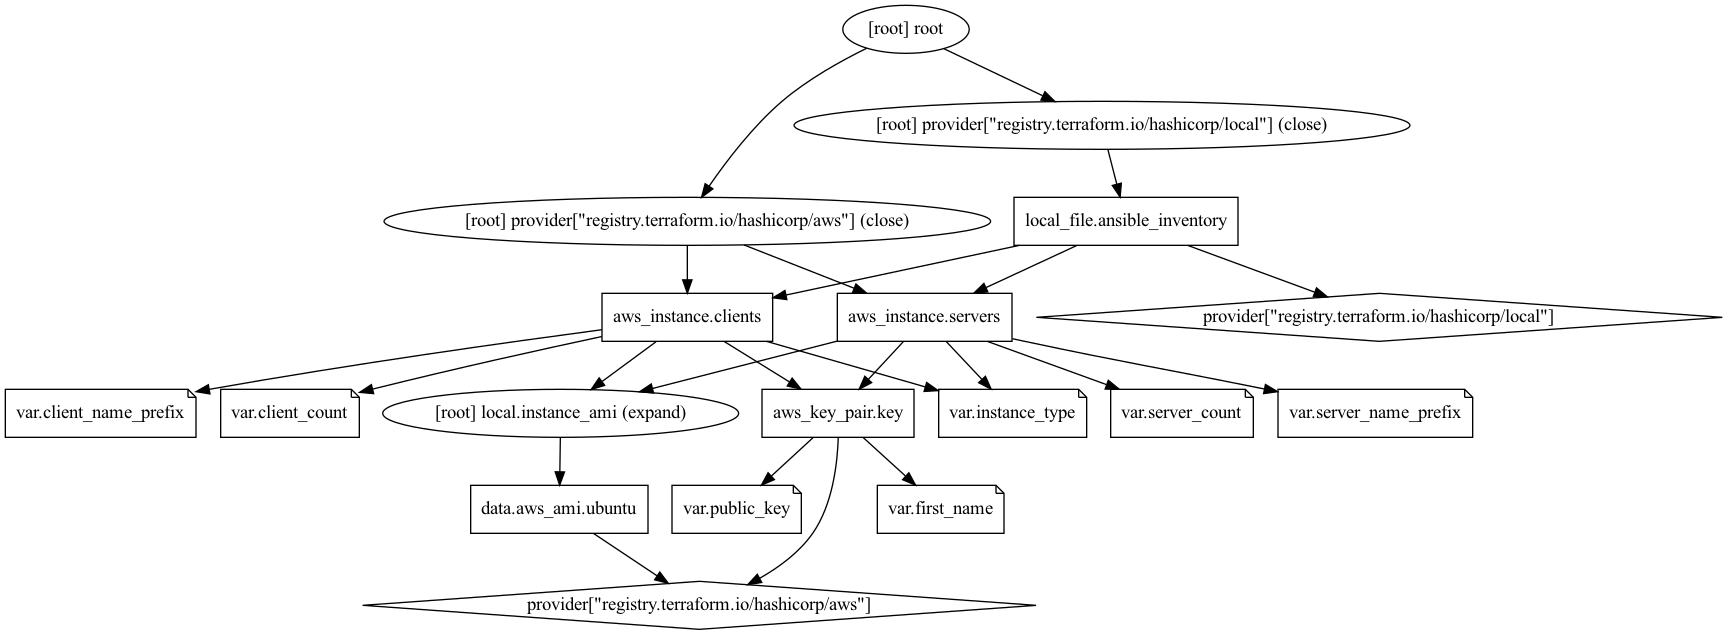
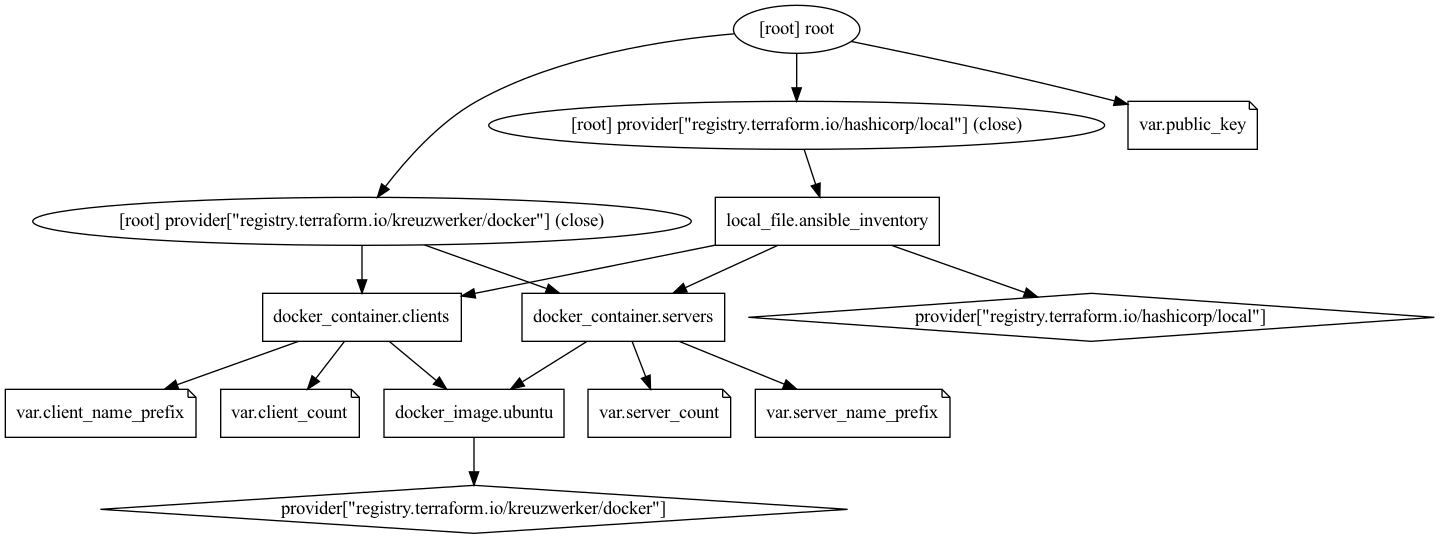
Docker edition

diff --git a/README.md b/README.md
@@ -1,5 +1,5 @@
 
-# HashiCorp Demo Environment - Terraform EC2 edition
+# HashiCorp Demo Environment - Docker edition
 
 ![Products Used](https://github.com/chrisvanmeer/at-hashi-demo/blob/main/screenshots/at-hashi-products-used.png)
 
@@ -12,11 +12,9 @@
 ![GitHub code size in bytes](https://img.shields.io/github/languages/code-size/chrisvanmeer/at-hashi-demo?logo=github)
 ![GitHub top language](https://img.shields.io/github/languages/top/chrisvanmeer/at-hashi-demo?logo=github)
 
-This repository holds all the code you will need to spin up a cluster of (by default 7) EC2 instances that will have a mixture of HashiCorp products installed.
+This repository holds all the code you will need to spin up a cluster of (by default 7) Docker containers that will have a mixture of HashiCorp products installed.
 
-**Please note** that you will need a working Amazon Cloud Account and access to a valid access- and secret key. All instances default to t2.micro wich is available in the Free Tier. I am not responsible for any costs that come from running these EC2 instances.
-
-All the provisioning is done through [Ansible](https://www.ansible.com). And the EC2 instances are built with [Terraform](https://terraform.io). During the deployment, the EC2 instances will be provisioned and a new inventory file will be created.
+All the provisioning is done through [Ansible](https://www.ansible.com). And the Docker containers are built with [Terraform](https://terraform.io). During the deployment, the Docker containers will be provisioned and a new inventory file will be created.
 
 ## What do the specific HashiCorp products do in this demo?
 
@@ -24,7 +22,7 @@ All the provisioning is done through [Ansible](https://www.ansible.com). And the
 
 > Terraform is an open-source infrastructure as code software tool that provides a consistent CLI workflow to manage hundreds of cloud services.
 
-In our demo, we will be using Terraform both both creating the EC2 instances as well as cleaning it all up afterwards.
+In our demo, we will be using Terraform both both creating the Docker instances as well as cleaning it all up afterwards.
 
 ### Consul
 
@@ -79,6 +77,7 @@ This was built and tested on both macOS 12.1 (both Intel and M1 chip) and Ubuntu
 Make sure you have the following installed on your workstation:
 
 - Ansible
+- Docker
 - [Terraform](https://www.terraform.io/downloads)
 
 ## Step 2 - Install Ansible requirements
